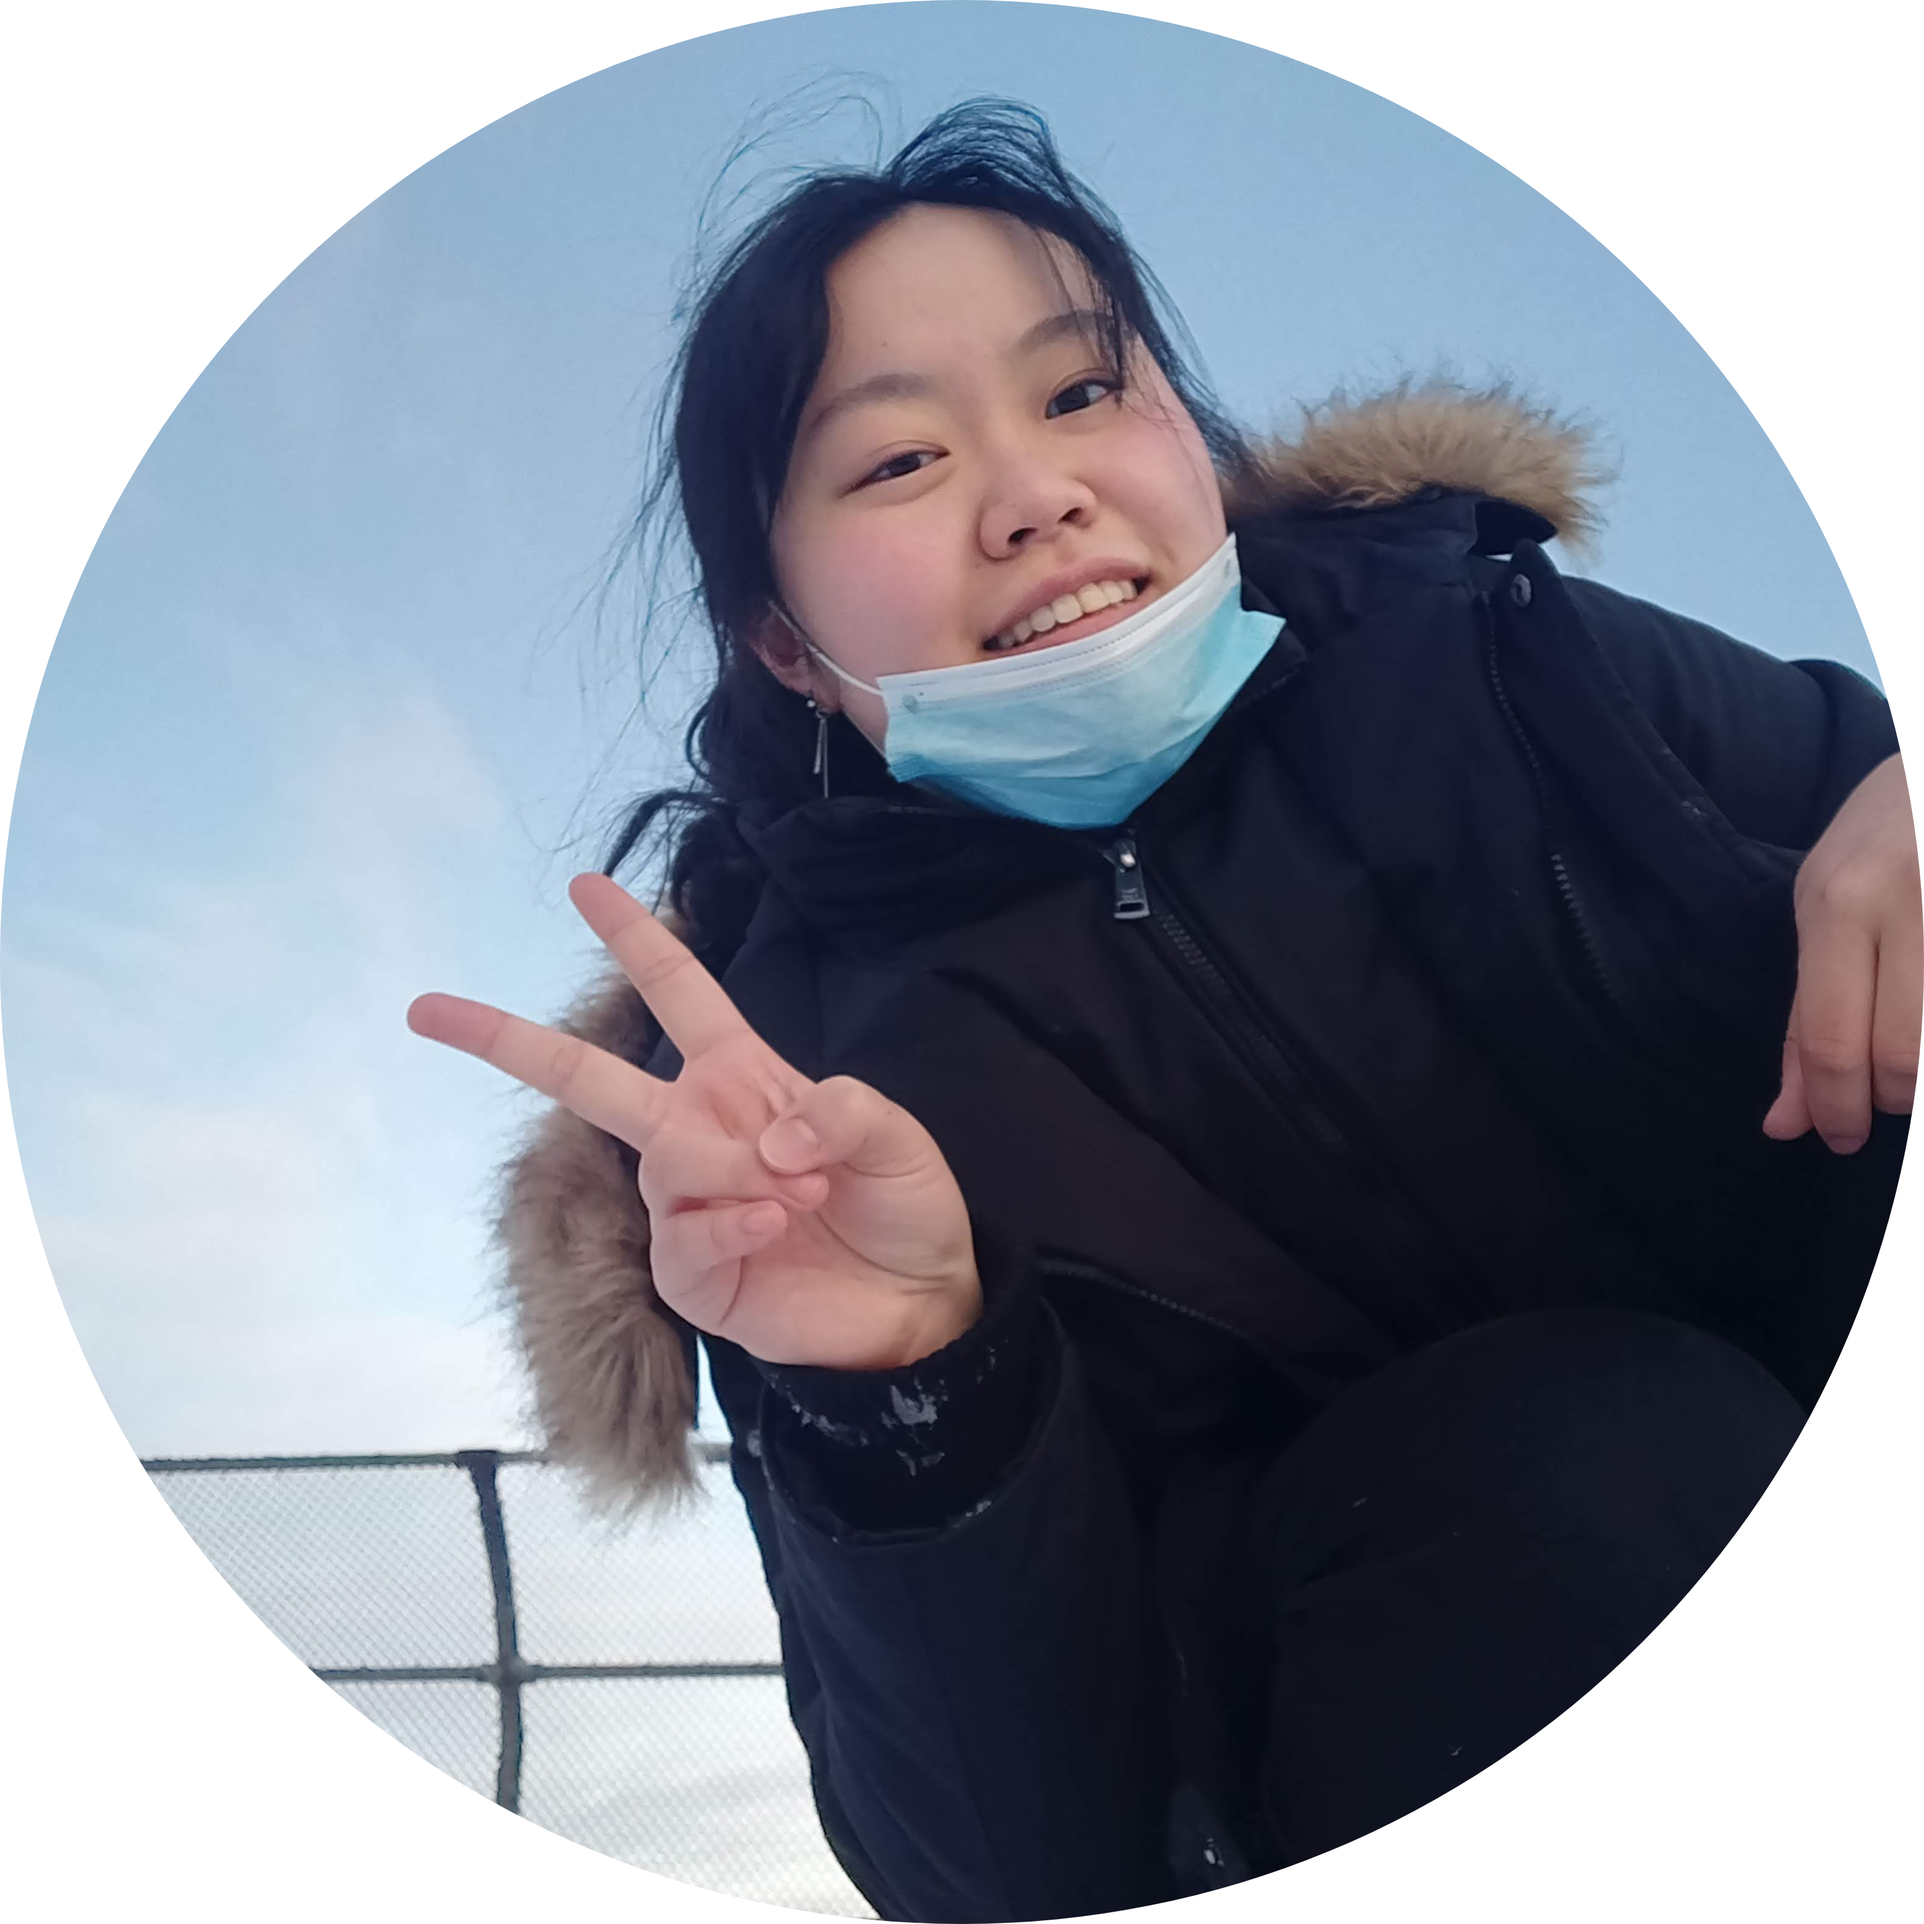
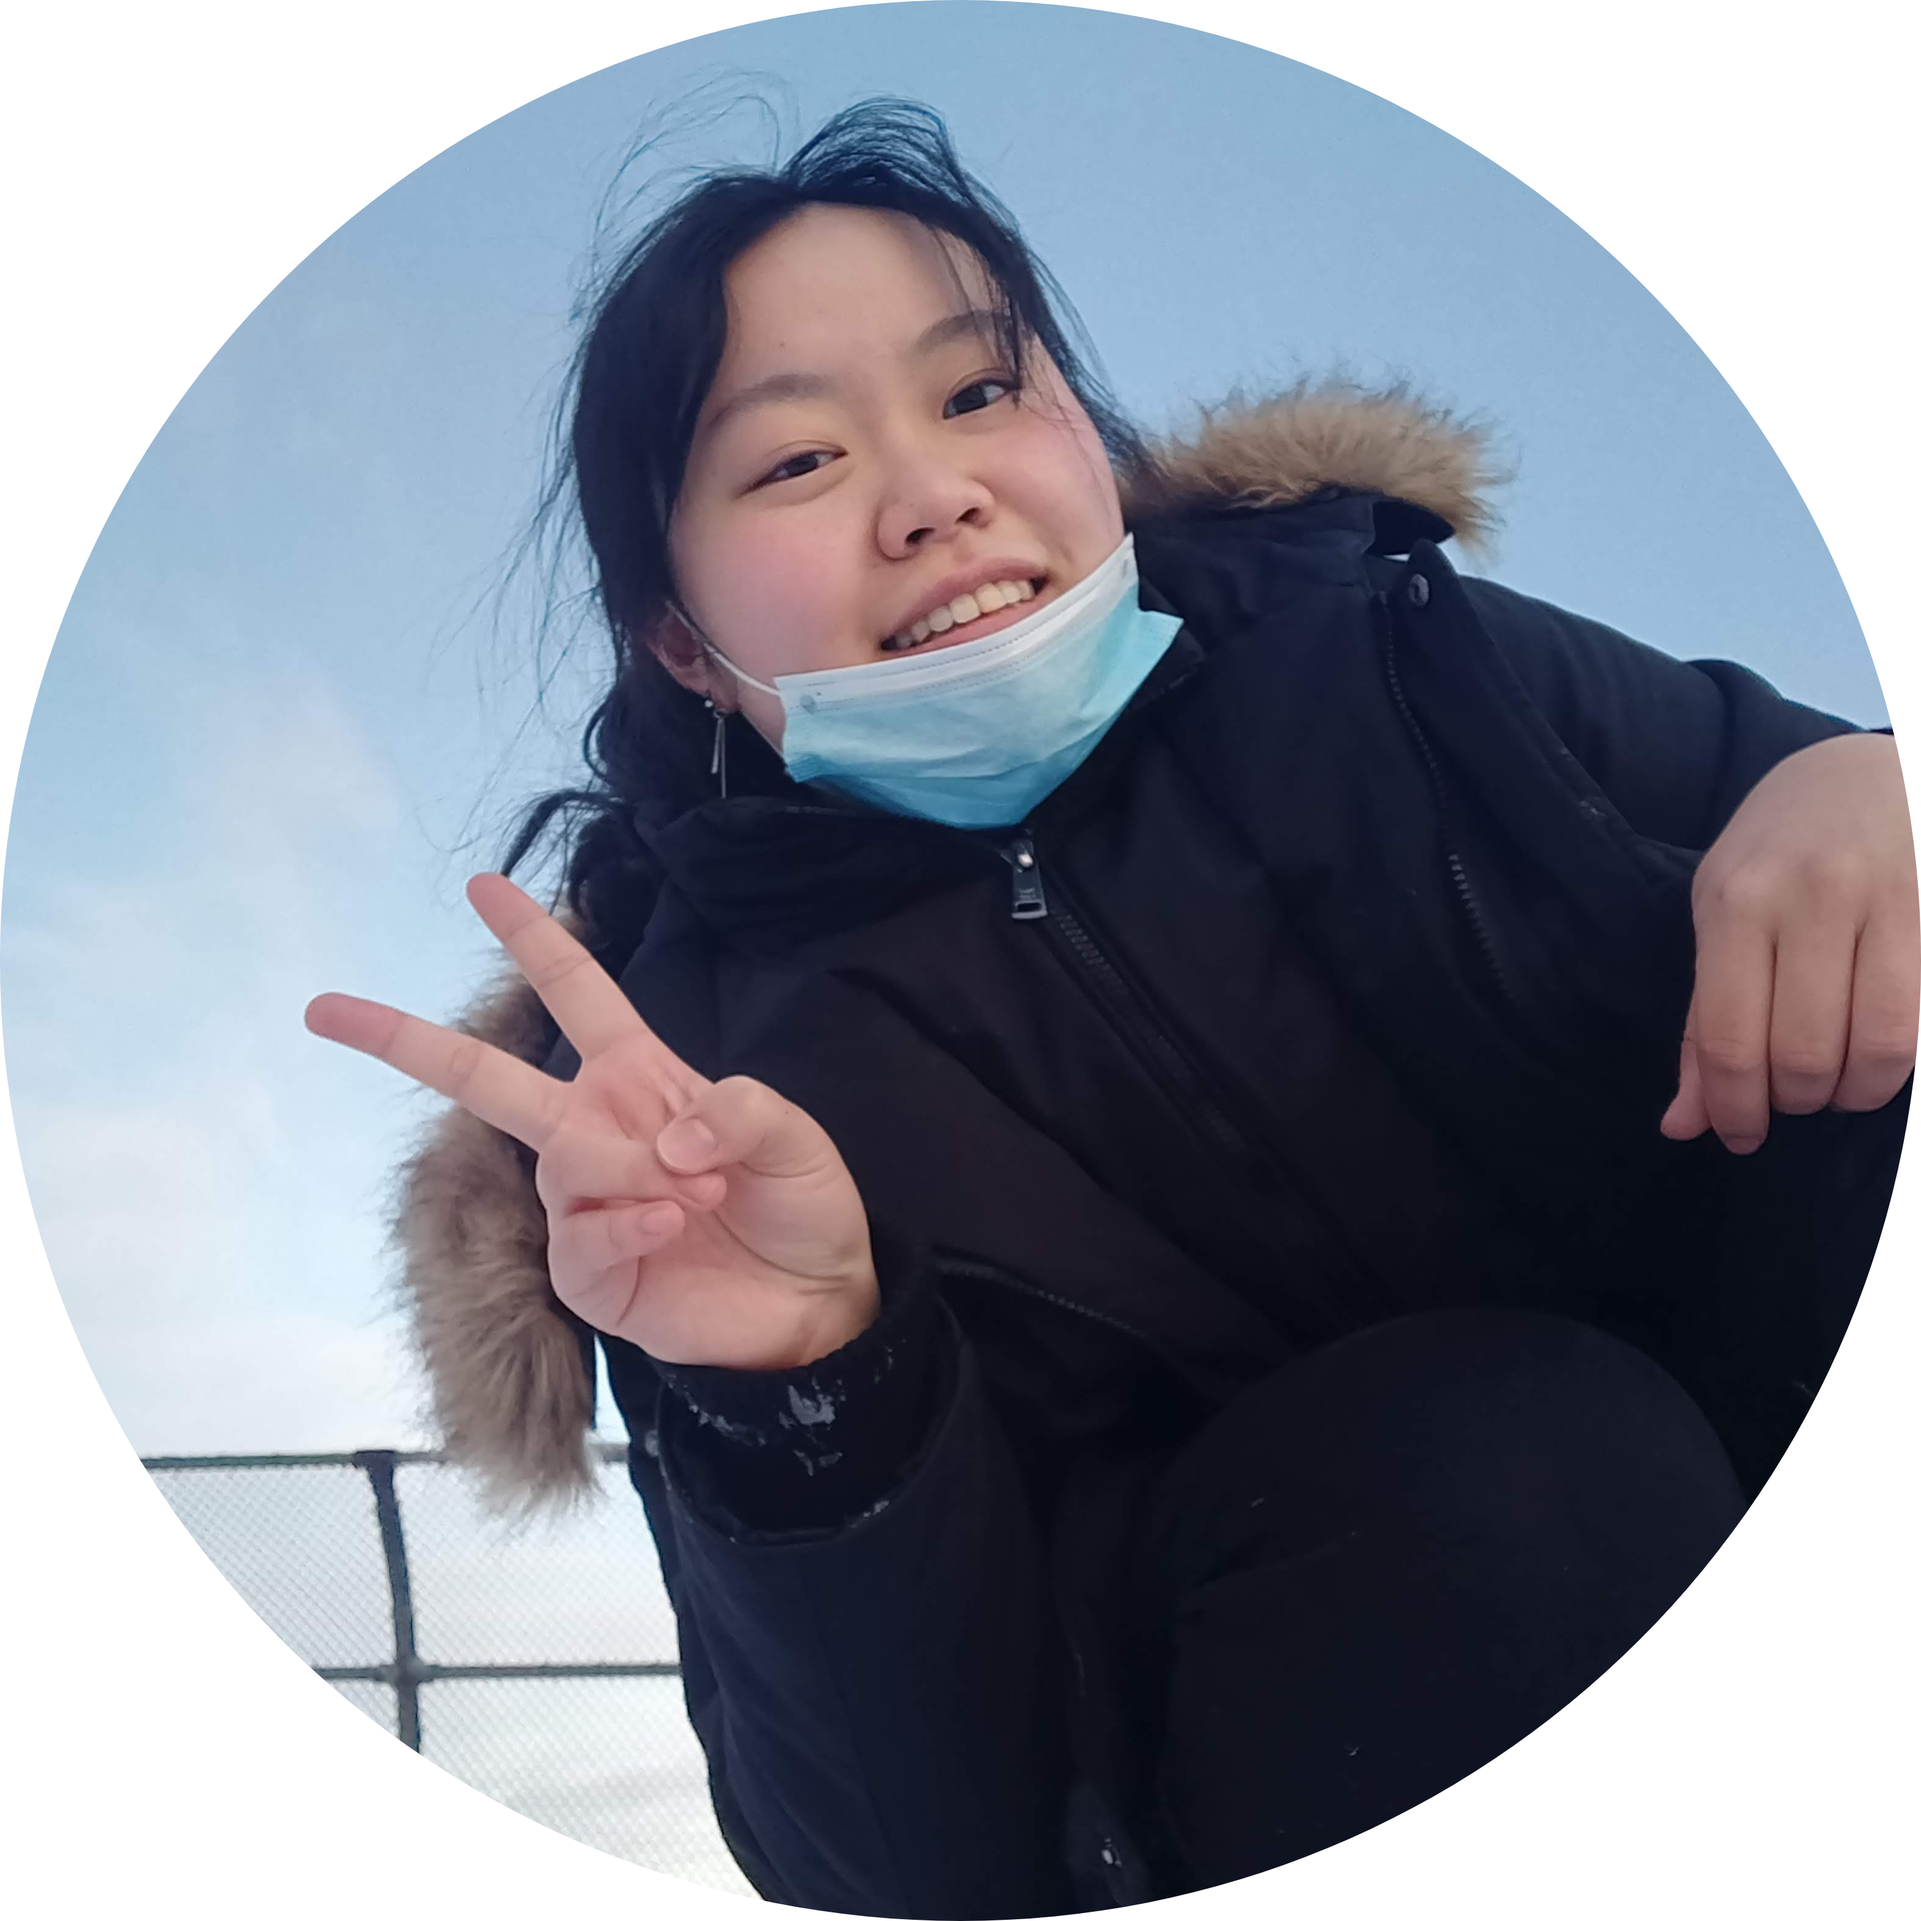
updated pic

Changed region(s): [[0.1549, 0.031, 1.0, 1.0], [0.9911, 0.4336, 1.0, 0.4646]]

diff --git a/index.html b/index.html
@@ -48,7 +48,7 @@
   <div id = "heroo" class="hero section">
     <a href="#heroo" id = "back-up"> <img id = "back-up-icon" src="./images/totop.png"> </a>
       <div class = "container-fluid ">
-        <img class = "img-responsive selfie" src = "images/headshot.png">
+        <img class = "img-responsive selfie" src = "images/headshot.png" width = "454">
         <!-- <span class = "gradient-border"></span> -->
       </div>
       <div class = "container-fluid">
